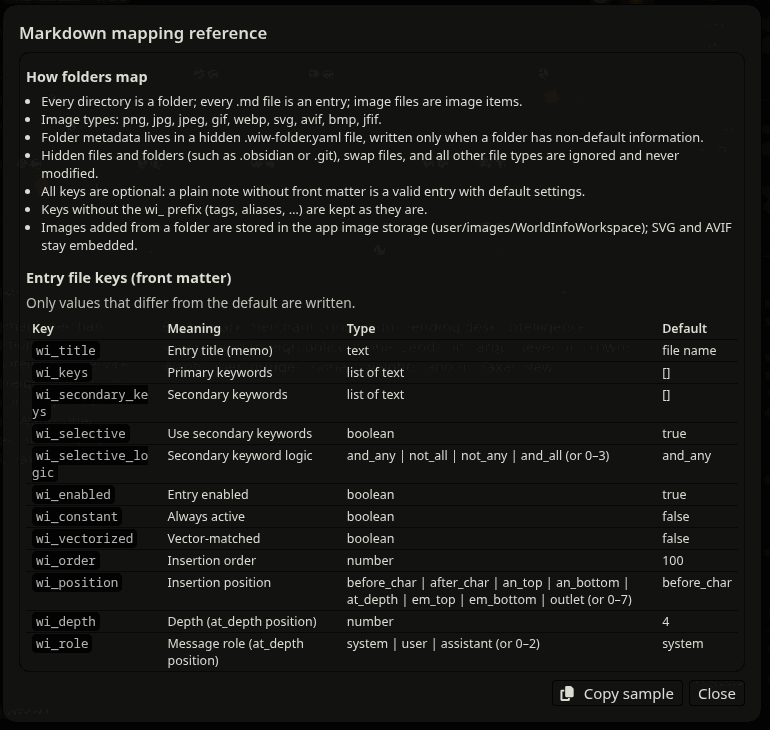
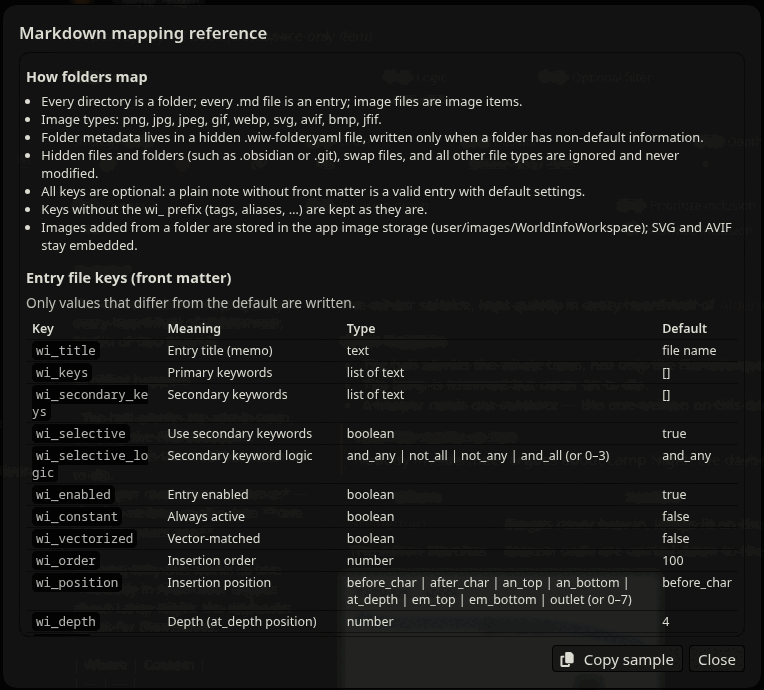
docs: rebuilt README screenshots on a clean demo workspace; trim credits and troubleshooting (spec-006, US3)
Screenshots are retaken against a freshly seeded demo dataset instead of leftover
test data. The markdown animation becomes a still: it showed no motion worth an
animation, and a still shows more of the render at once.

Credits keeps only the projects this one took its cues from. The host app, its
icon font and the spec workflow are the stack, not references.

Troubleshooting is removed: every symptom it listed is already explained in place
by the extension itself, so the table could only go stale.

diff --git a/README.md b/README.md
@@ -22,17 +22,6 @@ the same tree.
 - **Keeps every native field.** Keys, strategy, order, position, depth, role, character
   filters, triggers — the full World Info entry, grouped so the common fields are up front.
 
-<table>
-  <tr>
-    <td><img src="docs/images/wi-root.png" alt="A folder designated as a World Info root, with its bound native book" width="470"></td>
-    <td><img src="docs/images/assistant.png" alt="The assistant proposing a folder and an entry, each pending your decision" width="250"></td>
-  </tr>
-  <tr>
-    <td align="center">A folder bound to a native book</td>
-    <td align="center">Proposals wait for you</td>
-  </tr>
-</table>
-
 ## Install
 
 In SillyTavern: **Extensions → Install extension**, and paste
@@ -64,7 +53,11 @@ The content field is markdown, rendered as you type — headings, emphasis, list
 callouts, and Obsidian-style `[[wikilinks]]` and `![[embeds]]` that resolve against your own
 tree.
 
-![Typing markdown with the preview updating beside it](docs/images/markdown-preview.gif)
+![Markdown source beside its live preview: a callout, a table, wikilinks and an embedded image](docs/images/markdown-preview.png)
+
+Lore is usually written line by line, so **every line is its own paragraph** — you do not
+need a blank line between them. Wikilinks resolve against your tree, and `![[an image]]`
+embeds an image item you already have.
 
 ## World Info sync
 
@@ -79,6 +72,8 @@ A folder becomes a real lorebook when you designate it a **World Info root**.
   rename the book — the name is just a handle.
 - Moving an entry out removes it from the book on the next sync; moving one in adds it.
 - Deleting tells you first exactly what will disappear from which book.
+
+![A folder designated as a World Info root, bound to the native book it fills](docs/images/wi-root.png)
 
 Changes made outside the workspace merge in silently when they do not collide. If the same
 entry changed on both sides you get a conflict banner and decide. If a save fails, a banner
@@ -123,10 +118,20 @@ and says so — one-off export and import still work everywhere.
 The assistant writes and reorganises lore with you, using the connection profile you pick in
 its settings.
 
-**Nothing is applied until you accept it.** Each proposal can be reviewed as a diff, edited
-before accepting, accepted with the rest, or denied. Any applied batch can be undone while
-the conversation exists. Deletions and heavy content removals always ask separately and are
-never part of "Accept all".
+<table>
+  <tr>
+    <td><img src="docs/images/assistant.png" alt="Two proposed entries, each pending your decision, with Accept, Deny, Edit and Diff" width="360"></td>
+    <td valign="top">
+      <b>Nothing is applied until you accept it.</b><br><br>
+      Each proposal can be reviewed as a diff, edited before accepting, accepted with the
+      rest, or denied. Any applied batch can be undone while the conversation exists.
+      Deletions and heavy content removals always ask separately and are never part of
+      "Accept all".<br><br>
+      The notice above the proposals says exactly what the model was sent, so a surprising
+      answer is traceable rather than mysterious.
+    </td>
+  </tr>
+</table>
 
 You choose what it sees — the selected items, the whole structure, the current chat, the
 character card — and that choice becomes the default for new conversations. Conversations
@@ -151,15 +156,6 @@ eventSource.on('wi-workspace:tree-changed', ({ changes }) => {
 
 Full reference, payloads and stability promise: **[docs/hooks.md](docs/hooks.md)**.
 
-## Troubleshooting
-
-| Symptom | Cause |
-| --- | --- |
-| The markdown control is greyed out | Not desktop Chromium, or the page is not secure. One-off export/import still work. |
-| The assistant cannot send | The Connection Manager extension is missing, or no profile is selected in the assistant's settings. |
-| A book shows a conflict banner | The same entry changed in the workspace and outside it. Open the banner to compare and pick a side. |
-| "Workspace data could not be loaded" | The settings payload could not be read. The workspace stays empty and your stored data is untouched until you edit — use **Restore** in the banner. |
-
 ## Building from source
 
 ```bash
@@ -175,23 +171,29 @@ The built bundle is committed, because `manifest.json` points at `dist/index.js`
 
 ## Credits
 
-- **[SillyTavern](https://github.com/SillyTavern/SillyTavern)** — the host application.
-  Everything here runs through its public extension API (`getContext()`): World Info
-  loading and saving, connection profiles, popups, events and image storage. No app
-  internals are forked or patched.
-- **[SillyTavern-3DDiceRolls](https://github.com/Alamion/SillyTavern-3DDiceRolls)** — the
-  structural baseline for this extension: React + Webpack + SCSS with theme variables, the
-  settings and logging modules, and the single-bundle manifest layout.
-- **[SillyTavern-WorldInfoDrawer](https://github.com/LenAnderson/SillyTavern-WorldInfoDrawer)**
-  by LenAnderson — the drawer-based lore editor this project learned from, including
-  re-binding the native World Info entry point so the editor opens in place.
-- **[SillyTavern-WorldInfo-Recommender](https://github.com/bmen25124/SillyTavern-WorldInfo-Recommender)**
-  by bmen25124 — the AI lore-suggestion workflow that the in-workspace assistant
-  generalises: propose first, apply only on confirmation.
-- **[Font Awesome 6 Free](https://fontawesome.com/)** — icons, the same set the host app
-  uses, so the workspace matches your theme.
-- **[Spec Kit](https://github.com/github/spec-kit)** — the spec-driven workflow this
-  project is built with; every increment lives under `specs/`.
+Projects this one took its cues from — each solved a piece of the problem first, and this
+workspace is better for having read them.
+
+### [SillyTavern-3DDiceRolls](https://github.com/Alamion/SillyTavern-3DDiceRolls)
+
+The structural baseline. This extension reuses its shape for an ST extension that ships a
+real front end: a React + Webpack + SCSS bundle behind a single manifest, styling driven
+entirely by theme variables so the UI follows the user's theme, and the small settings and
+logging modules that sit between the app and the extension's own state.
+
+### [SillyTavern-WorldInfoDrawer](https://github.com/LenAnderson/SillyTavern-WorldInfoDrawer)
+
+Showed that lore editing belongs in a roomy drawer rather than the native form, and that an
+extension can re-bind the native World Info entry point so the richer editor opens in place
+instead of living somewhere else in the UI. The mode toggle back to Worlds/Lorebooks comes
+directly from that idea.
+
+### [SillyTavern-WorldInfo-Recommender](https://github.com/bmen25124/SillyTavern-WorldInfo-Recommender)
+
+The source of the assistant's central rule: **propose first, apply only on confirmation.**
+Its workflow — ask a model for lore, show what it came up with, let the user take some of
+it — is what the in-workspace assistant generalises into reviewable batches with diffs and
+undo.
 
 ## License
 
